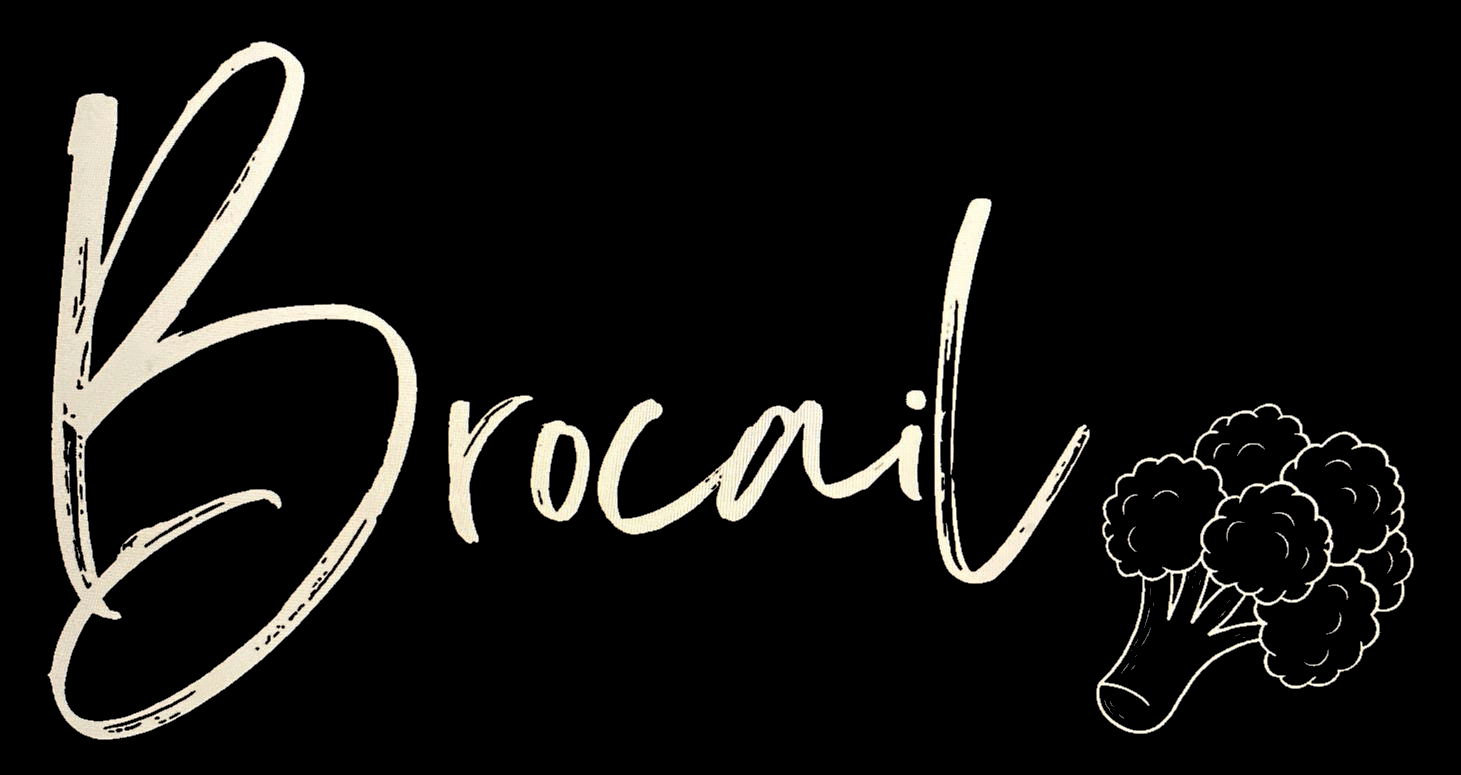
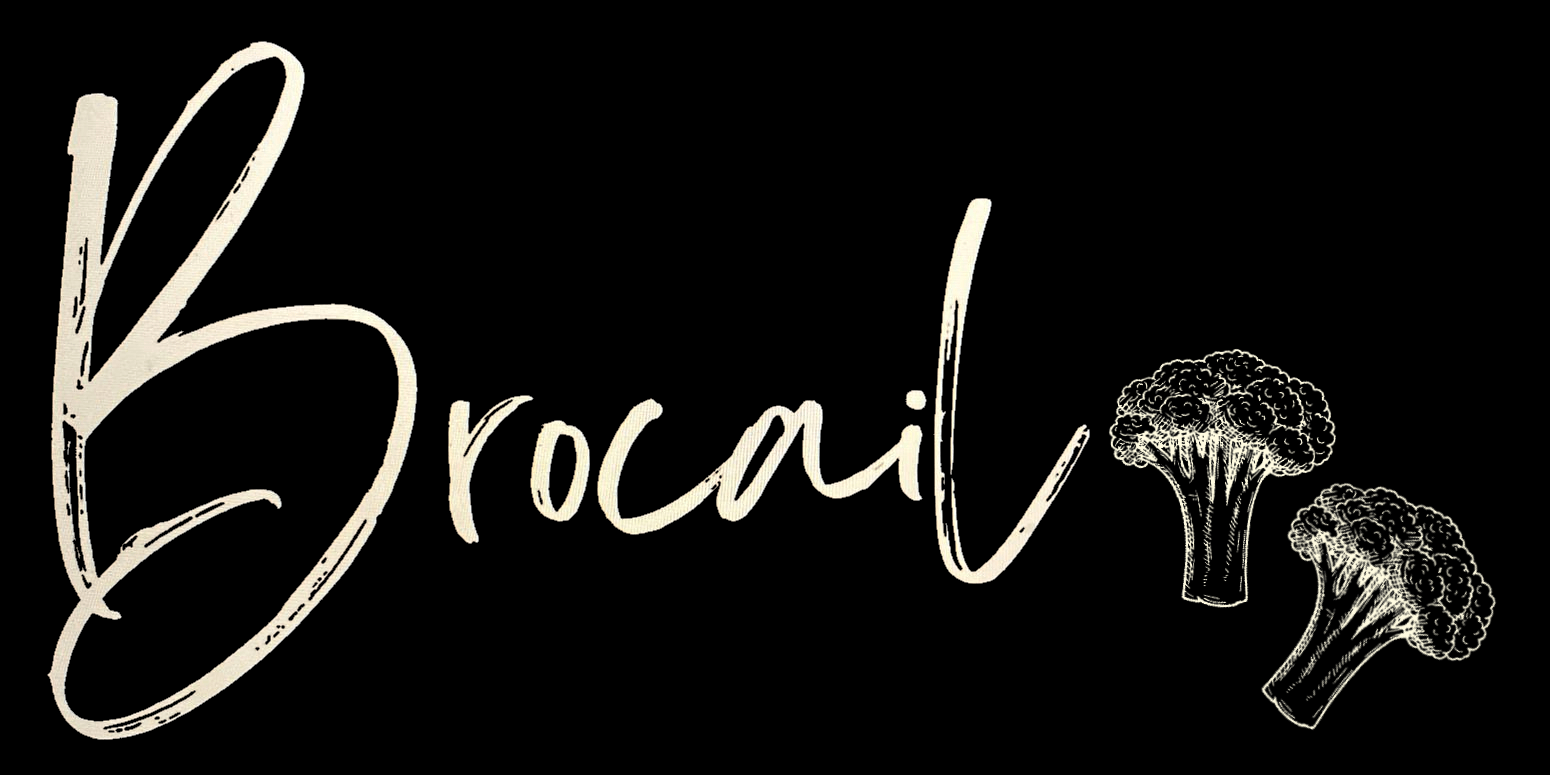
colour scheme and new pages

diff --git a/css/style.css b/css/style.css
@@ -3,8 +3,8 @@
   */
 
 body {
-  background: #000;
-  padding-top: 2%;
+  background: #e5ddc861;
+  padding-top: 1%;
   padding-bottom: 2%;
 }
 
@@ -15,7 +15,7 @@ h2 {
   font-family: -apple-system, system-ui, BlinkMacSystemFont, "Segoe UI", Roboto, Helvetica, Arial, sans-serif, "Apple Color Emoji", "Segoe UI Emoji";
   line-height: 1.55;
   text-align: center;
-  color: #E5DDC8;
+  color: #000;
   margin-left: 5%;
   margin-right: 5%;
 }
@@ -27,6 +27,8 @@ h1 {
   margin-top: 40px;
   margin-bottom: 40px;
   font-size: 19px;
+  font-style: italic;
+  font-weight: normal;
 }
 
 h2 {
@@ -49,10 +51,10 @@ p {
   */
 img {
   display: block;
-  margin-top: 25px;
+  margin-bottom: 10px;
   margin-left: auto;
   margin-right: auto;
-  width: 40%;
+  width: 37%;
   min-width: 300px;
 }
 
@@ -60,7 +62,7 @@ img {
   * Hyperlink color
   */
 a {
-  color: #1b95e0;
+  color: #000;
   text-decoration: none;
 }
 
@@ -88,29 +90,22 @@ a:hover {
 }
 
 
-.animate {
-  animation-duration: 0.75s;
-  animation-delay: 0.2s;
-  animation-name: animate-fade;
-  animation-timing-function: cubic-bezier(.26, .53, .74, 1.48);
-  animation-fill-mode: backwards;
+nav ul {
+  list-style-type: none;
+  margin: 0;
+  padding: 0;
+  overflow: hidden;
 }
 
-/* Spin In */
-.animate.spin {
-  animation-name: animate-spin;
-  transform-style: preserve-3d;
-  perspective: 1000px;
+nav ul li {
+  display: inline;
+  margin-right: 30px;
+  border-right: 1px solid #000;
+  padding-right: 30px;
+  /* bold font */
+  font-weight: bold;
 }
 
-@keyframes animate-spin {
-  0% {
-    opacity: 0;
-    transform: rotateY(-120deg) scale(0.9, .9);
-  }
-
-  100% {
-    opacity: 1;
-    transform: rotateY(0deg) scale(1, 1);
-  }
+nav ul li:last-child {
+  border-right: none; /* Removes border from the last item */
 }

diff --git a/index.html b/index.html
@@ -19,17 +19,26 @@
 
 <body>
 	<div class="content">
-		<!-- image centered in the page-->
-		<div class="center animate spin">
-			<img src="./img/brocail.png" alt="Brocail" class="logo">
-		</div>
-
-		<h1>Brocail offers exceptional culinary experiences, prioritising quality and sustainability</h1>
 		
-		<p>🥕 Our menu is plant-based and seasonal, we prioritise locally-grown produce</p>
-		<p>🍅 Brocail is available for events, festivals, weddings, parties, and corporate events</p>
+		<div class="center">
+			<img src="./img/brocail_bw.png" alt="Brocail" class="logo">
 
-	</div>
+			<nav>
+				<ul>
+					<li><a href="./index.html">Home</a></li>
+					<li><a href="./about.html">About</a></li>
+					<li><a href="./our-food.html">Our Food</a></li>
+					<li><a href="./find-us.html">Find Us</a></li>
+					<li><a href="./events.html">Events</a></li>
+				</ul>
+			</nav>
+			
+			<h1>Brocail offers exceptional culinary experiences, prioritising quality and sustainability</h1>
+
+			<p>🥕 Our menu is plant-based and seasonal, we prioritise locally-grown produce</p>
+			<p>🍅 Brocail is available for events, festivals, weddings, parties, and corporate events</p>
+
+		</div>
 </body>
 
 </html>
